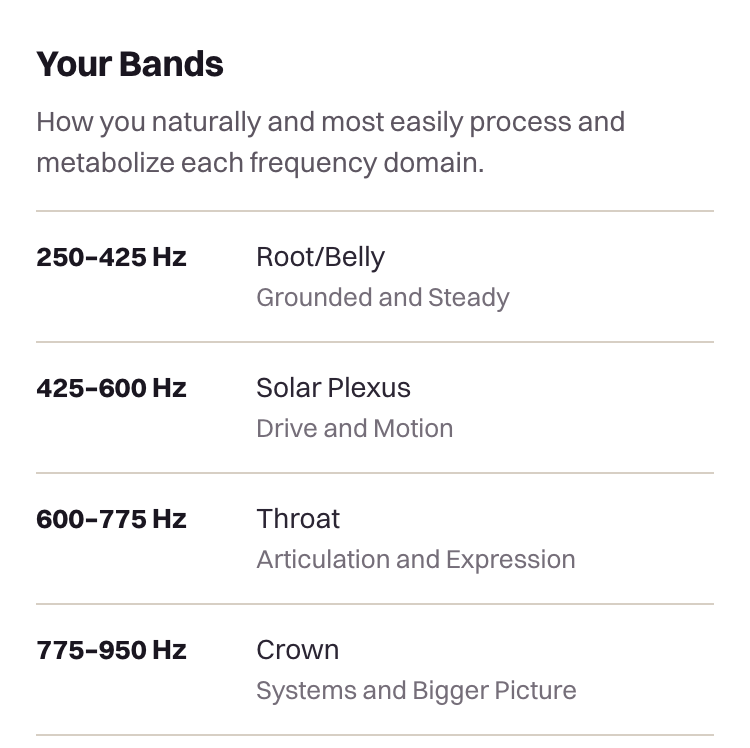
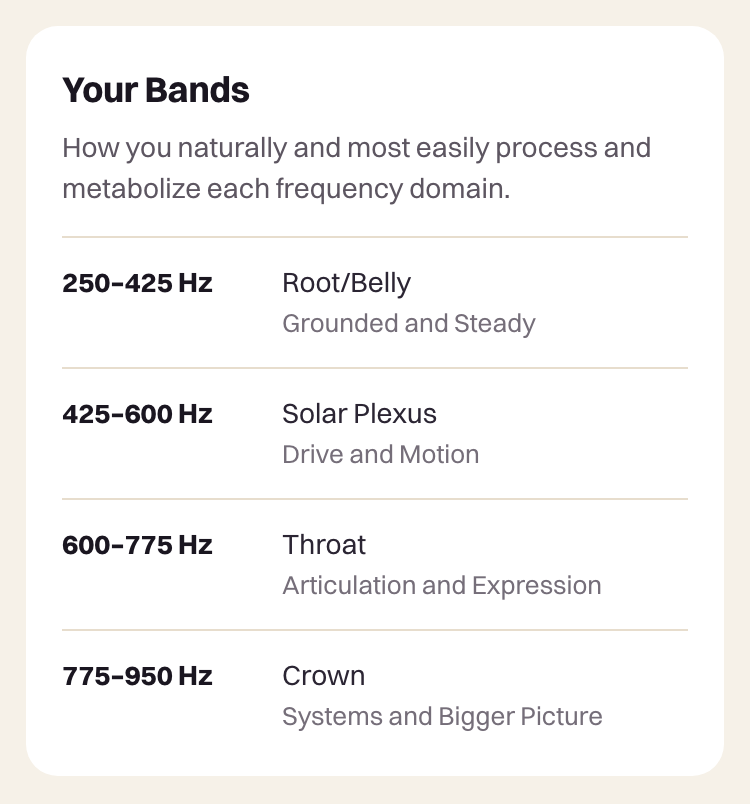
W-3 polish: bands-key recomposed to card-on-cream shot grammar, The App kicker aligned, dead anchor cleanup

diff --git a/inapp/welcome-1g.html b/inapp/welcome-1g.html
@@ -10,7 +10,6 @@
 <style>
 :root{--cream:#F6F1E8;--paper:#fff;--ink:#1a1620;--body:#2b2533;--mut:#756e79;--rule:#eadfce;--violet:#6521c9;--violet-deep:#38007a;--violet-soft:#efecff;--serif:"Cormorant Garamond",Georgia,serif;--sans:"Switzer",-apple-system,BlinkMacSystemFont,"Segoe UI",sans-serif}
 *{box-sizing:border-box}
-html{scroll-behavior:smooth}
 html,body{margin:0;min-height:100%;overflow-x:clip;background:var(--cream);color:var(--ink);font-family:var(--sans);-webkit-font-smoothing:antialiased}
 body{position:relative;isolation:isolate}
 body:before,body:after{content:"";position:fixed;z-index:0;pointer-events:none;border-radius:50%;filter:blur(74px)}
@@ -45,7 +44,7 @@ a:focus-visible{outline:2px solid var(--violet);outline-offset:3px}
 
 /* ---------- feed ---------- */
 .feed{padding:8px 24px 46px}
-.lede{margin:34px 0 0;max-width:340px;font-size:20px;font-weight:500;line-height:1.42;text-align:left;color:var(--ink)}
+.lede{margin:34px 0 0;font-size:20px;font-weight:500;line-height:1.42;text-align:left;color:var(--ink)}
 .feature{margin:72px 0 0}
 .tick{width:34px;height:3px;margin:0 0 14px;border-radius:2px;background:linear-gradient(90deg,var(--violet),#9a55d7)}
 .feature h2{margin:0;font-family:var(--serif);font-size:36px;font-weight:600;letter-spacing:-.01em;line-height:1.06}
@@ -69,8 +68,8 @@ a:focus-visible{outline:2px solid var(--violet);outline-offset:3px}
 .expect .tm{text-align:left}
 
 /* ---------- graduation ---------- */
-.grad{margin:76px 0 0;text-align:center}
-.grad .freq-label{margin:0}
+.grad{margin:76px 0 0}
+.grad .freq-label{margin:0 auto;max-width:340px;text-align:left}
 .map{margin:22px auto 0;max-width:340px;text-align:left}
 .map .row{padding:15px 2px 17px;border-top:1px solid #ddd3c4}
 .map .row:last-of-type{border-bottom:1px solid #ddd3c4}
@@ -116,7 +115,7 @@ a:focus-visible{outline:2px solid var(--violet);outline-offset:3px}
   <h2 class="howhead">How to Use Zodiac.fm</h2>
 </section>
 
-<section class="feed" id="how">
+<section class="feed">
 
   <p class="lede">The results of our 12 month beta test reveal that this is all you have to do in order to get the results you see in the testimonials.</p>
 
@@ -144,7 +143,7 @@ a:focus-visible{outline:2px solid var(--violet);outline-offset:3px}
       <p>How you process each Signal</p>
       <p>Go to the My Zodiac Tab and discover yours</p>
     </div>
-    <div class="shot"><img src="app-assets-welcome/bands-key.png" alt="The Your Bands key: the four ranges and how each one processes" width="750" height="748"></div>
+    <div class="shot"><img src="app-assets-welcome/bands-key.png" alt="The Your Bands key: the four ranges and how each one processes" width="750" height="804"></div>
     <div class="tm">
       <img src="app-assets-welcome/barbara-ditlow.png" alt="Barbara Ditlow">
       <blockquote>&ldquo;Zodiac core frequencies translate this unique imprint into sound, bypassing the mind and speaking directly to the body.&rdquo;
